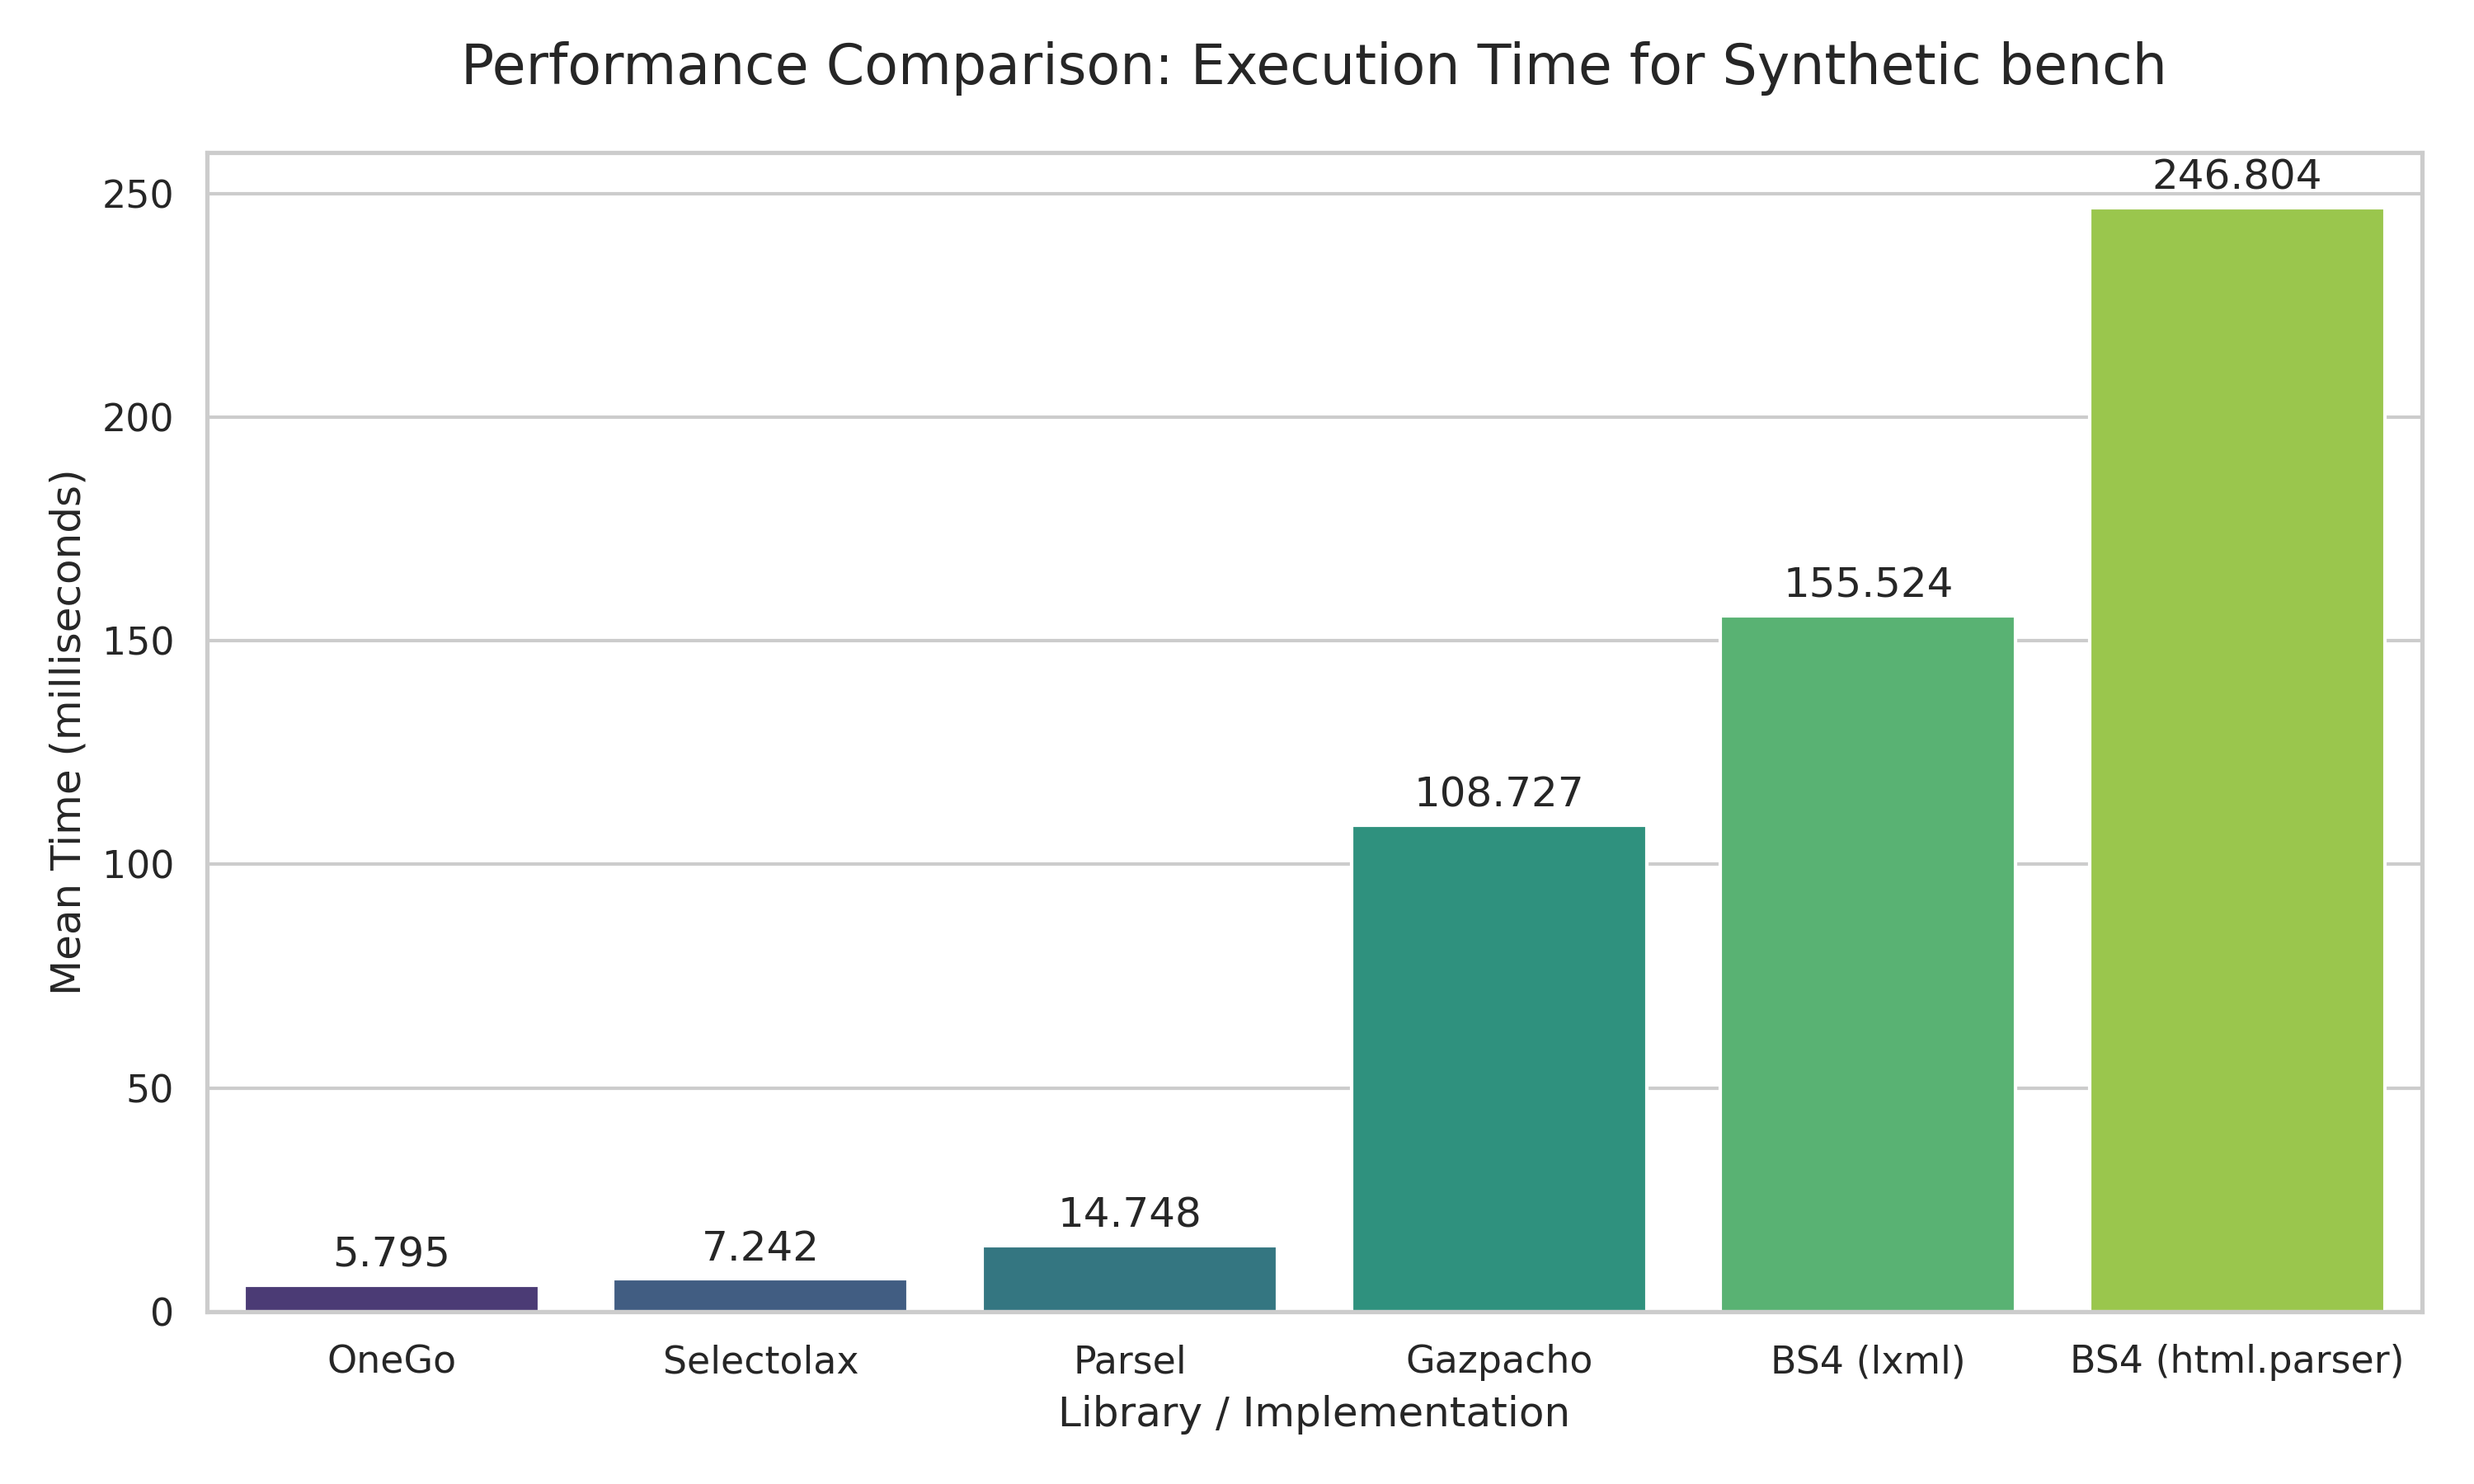
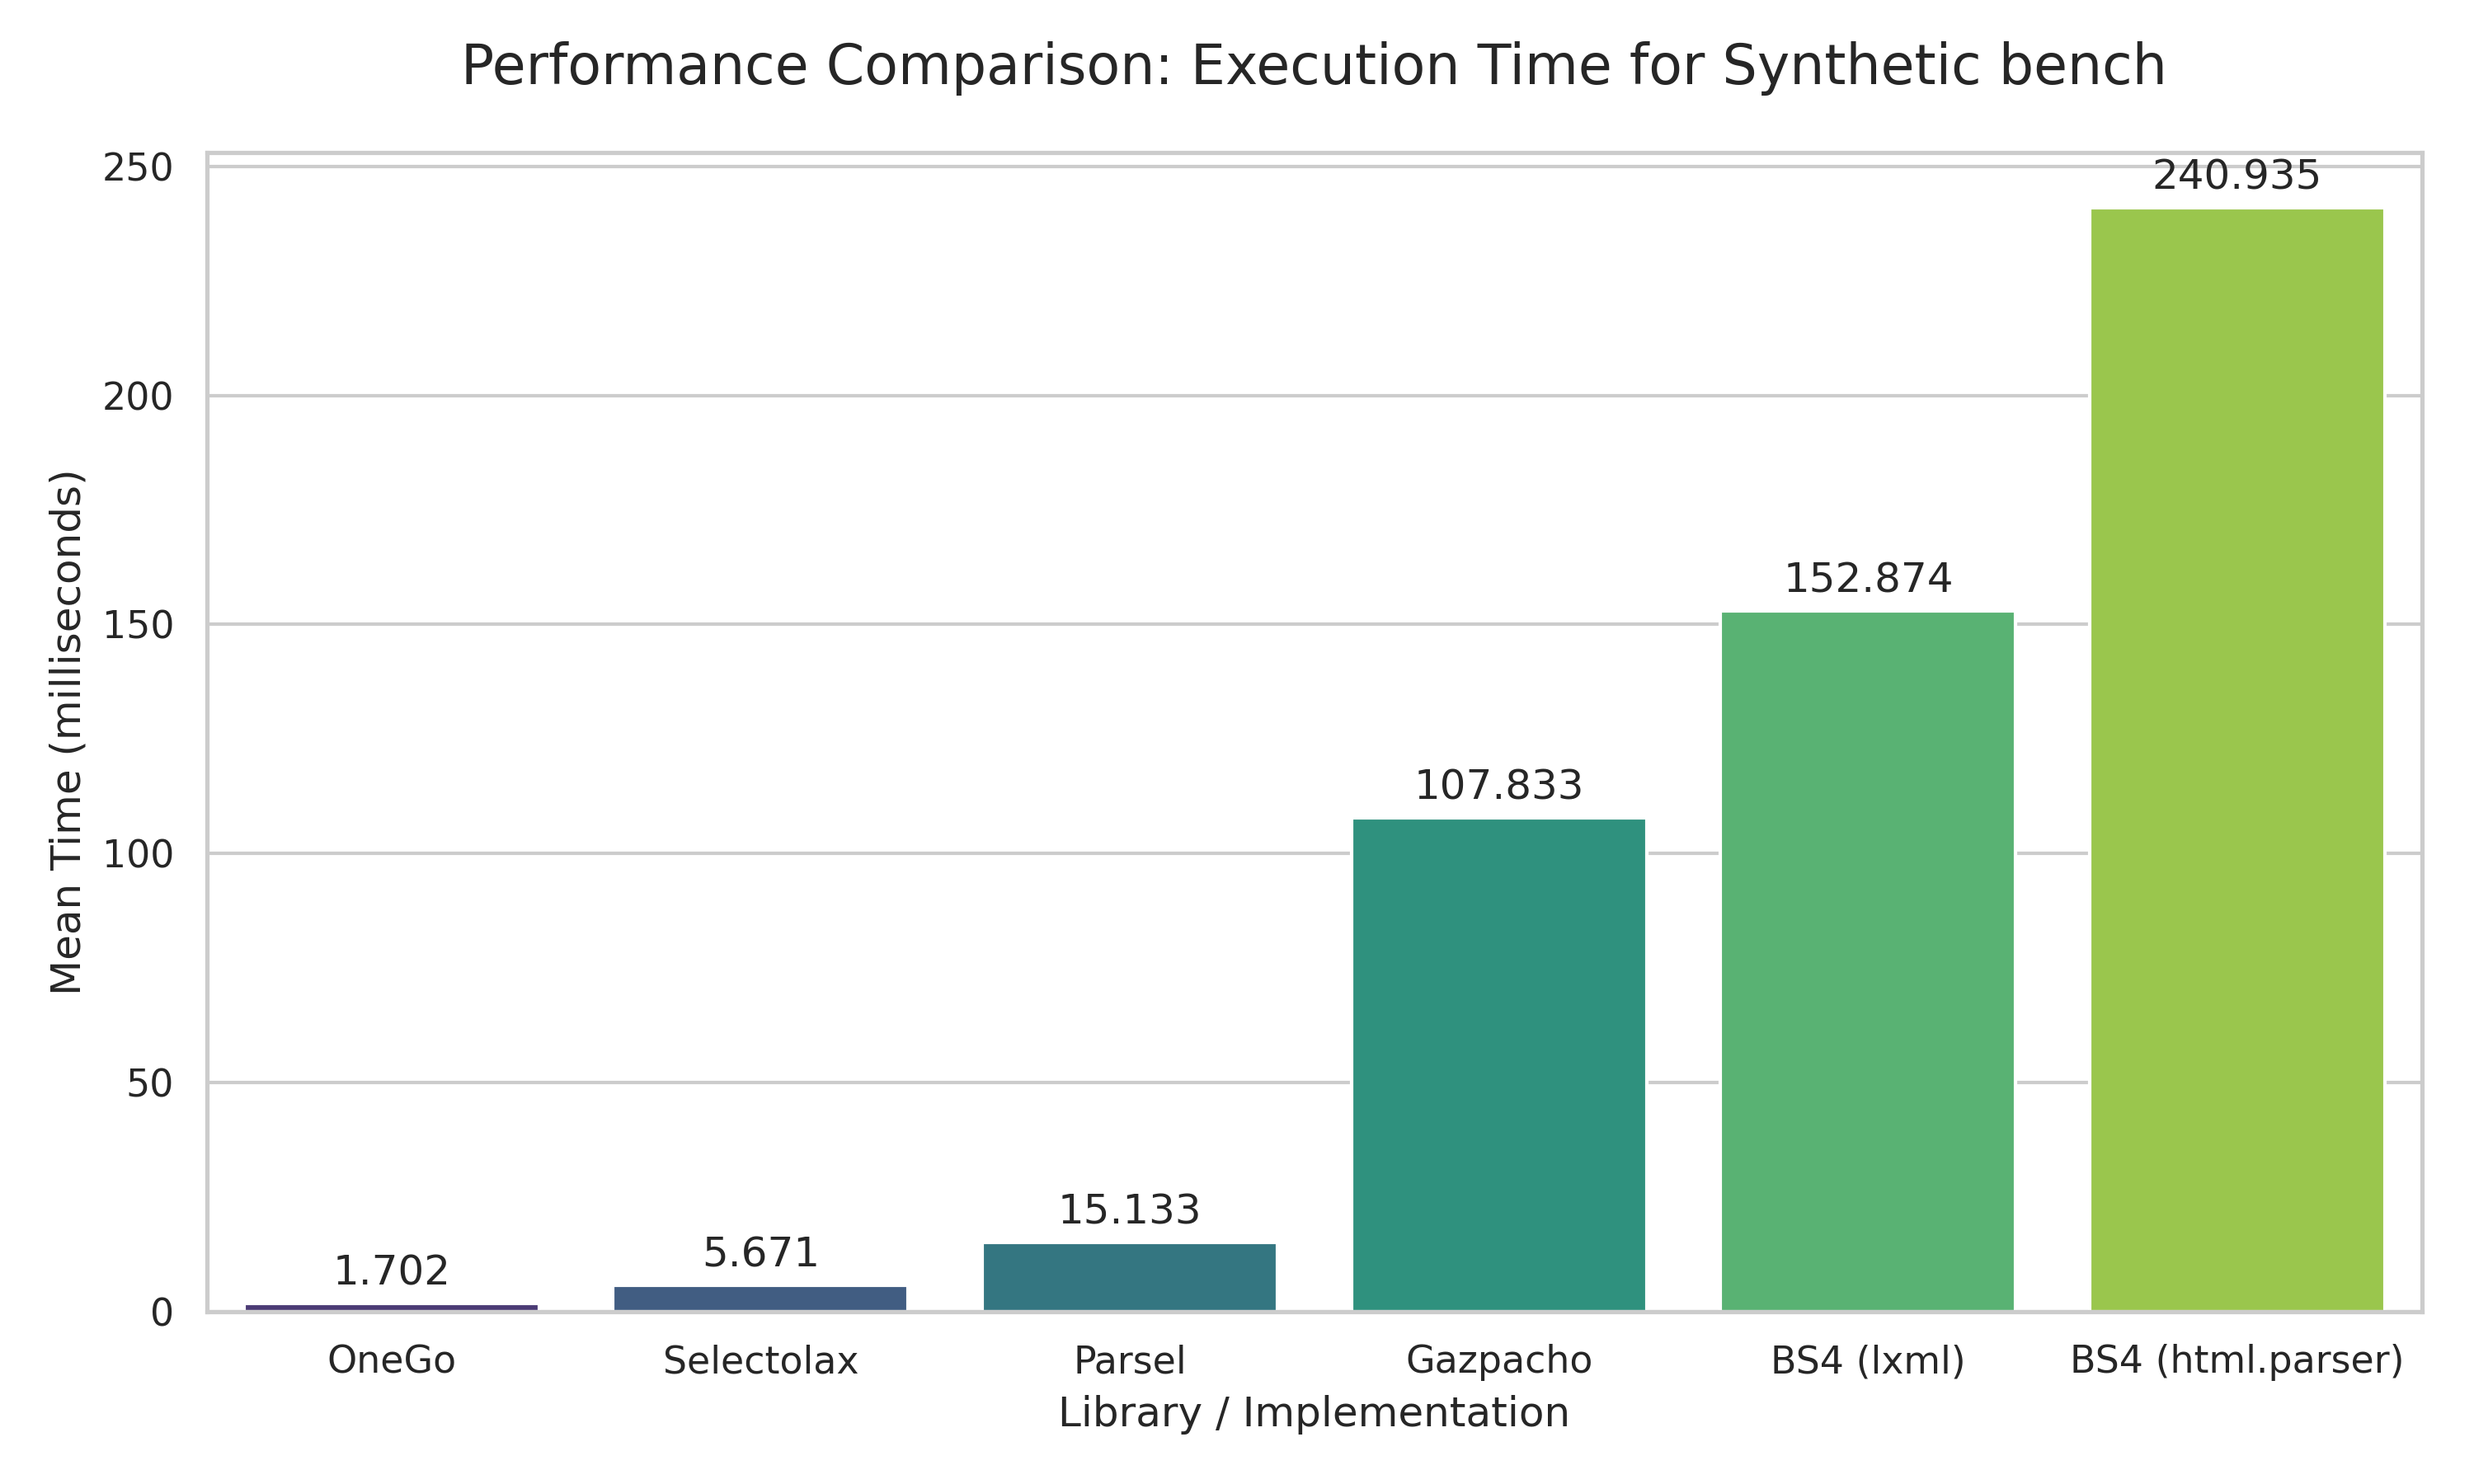
Performance metrics WITH copy to bytes in python

diff --git a/python/src/lib.rs b/python/src/lib.rs
@@ -1,7 +1,7 @@
-use ::onego::{FsmManager, QueryBuilder, Reader, SelectionPart, Store, XHtmlParser, ChildIndex};
+use ::onego::{ChildIndex, FsmManager, QueryBuilder, Reader, SelectionPart, Store, XHtmlParser};
+use pyo3::buffer::PyBuffer;
 use pyo3::prelude::*;
 use pyo3::types::{PyDict, PyList, PyMemoryView};
-use pyo3::buffer::PyBuffer;
 
 mod element;
 mod query;
@@ -11,7 +11,7 @@ mod view;
 
 use crate::query::{PyQuery, PyQueryBuilder, PyQueryFactory, PyQueryStatic};
 use crate::save::PySave;
-use view::{string_buffer_to_memory_view, get_memoryview_from_str};
+use view::{get_memoryview_from_u8, string_buffer_to_memory_view};
 //use crate::store::PythonStore;
 
 use std::ops::Range;
@@ -24,7 +24,7 @@ pub struct Attribute {
     value: OptionalStrRange,
 }
 
-#[pyclass(name="Element")]
+#[pyclass(name = "Element")]
 pub struct PyElement {
     base: Py<PyMemoryView>,
     text_content_tape: Py<PyMemoryView>,
@@ -42,21 +42,22 @@ pub struct PyElement {
 #[pyfunction]
 fn parse<'py>(
     py: Python<'py>,
-    html: &str,
-    //html: Bound<'py, PyMemoryView>,
+    html: Bound<'py, PyMemoryView>,
     queries: Bound<'py, PyAny>,
 ) -> PyResult<Bound<'py, PyList>> {
-    // let html_bytes = {
-    //     let buffer = PyBuffer::<u8>::get(&html)?;
-    //     if !buffer.is_c_contiguous() {
-    //         return Err(pyo3::exceptions::PyValueError::new_err("MemoryView is not contiguous"));
-    //     }
-    //     let slice = unsafe {
-    //         std::slice::from_raw_parts(buffer.buf_ptr() as *const u8, buffer.len_bytes())
-    //     };
+    let html_bytes = {
+        let buffer = PyBuffer::<u8>::get(&html)?;
+        if !buffer.is_c_contiguous() {
+            return Err(pyo3::exceptions::PyValueError::new_err(
+                "MemoryView is not contiguous",
+            ));
+        }
+        let slice = unsafe {
+            std::slice::from_raw_parts(buffer.buf_ptr() as *const u8, buffer.len_bytes())
+        };
 
-    //     slice
-    // };
+        slice
+    };
 
     let mut py_queries: Vec<PyQuery> = Vec::new();
 
@@ -102,9 +103,9 @@ fn parse<'py>(
     }
 
     let selectors = FsmManager::new(&built_queries);
-    let mut parser = XHtmlParser::with_capacity(selectors, html.len());
+    let mut parser = XHtmlParser::with_capacity(selectors, html_bytes.len());
 
-    let mut reader = Reader::new(&html);
+    let mut reader = Reader::from_bytes(html_bytes);
     while parser.next(&mut reader) {}
 
     let store = parser.matches();
@@ -114,7 +115,7 @@ fn parse<'py>(
     let mut list = Vec::with_capacity(store.elements.len());
 
     #[inline]
-    fn substring_range(parent: &str, substring: &str) -> Range<usize> {
+    fn substring_range(parent: &[u8], substring: &str) -> Range<usize> {
         let parent_ptr = parent.as_ptr();
         let sub_ptr = substring.as_ptr();
 
@@ -125,7 +126,7 @@ fn parse<'py>(
     }
 
     #[inline]
-    fn optional_substring_range(parent: &str, substring: Option<&str>) -> Option<Range<usize>> {
+    fn optional_substring_range(parent: &[u8], substring: Option<&str>) -> Option<Range<usize>> {
         if let Some(substring) = substring {
             Some(substring_range(parent, substring))
         } else {
@@ -133,28 +134,41 @@ fn parse<'py>(
         }
     }
 
-    let base_ref: &Py<PyMemoryView> = &unsafe { get_memoryview_from_str(py, html) }?.unbind();
+    let base_ref: &Py<PyMemoryView> = &unsafe { get_memoryview_from_u8(py, html_bytes) }?.unbind();
 
     for element in store.elements {
         list.push(PyElement {
             base: base_ref.clone_ref(py),
             text_content_tape: text_content_view_ref.clone_ref(py),
 
-            name: substring_range(&html, element.name),
-            id: optional_substring_range(&html, element.id),
-            class: optional_substring_range(&html, element.class),
-            inner_html: optional_substring_range(&html, element.inner_html),
+            name: substring_range(html_bytes, element.name),
+            id: optional_substring_range(html_bytes, element.id),
+            class: optional_substring_range(html_bytes, element.class),
+            inner_html: optional_substring_range(html_bytes, element.inner_html),
             text_content: element.text_content,
 
-            attributes: element.attributes.iter().map(|a| Attribute {
-                key: substring_range(html, a.key),
-                value: optional_substring_range(html, a.value),
-            }).collect(),
+            attributes: element
+                .attributes
+                .iter()
+                .map(|a| Attribute {
+                    key: substring_range(html_bytes, a.key),
+                    value: optional_substring_range(html_bytes, a.value),
+                })
+                .collect(),
 
-            children: element.children.into_iter().map(|c| (substring_range(&html, c.query), match c.index {
-                ChildIndex::One(index) => vec![index],
-                ChildIndex::Many(vec) => vec,
-            })).collect()
+            children: element
+                .children
+                .into_iter()
+                .map(|c| {
+                    (
+                        substring_range(html_bytes, c.query),
+                        match c.index {
+                            ChildIndex::One(index) => vec![index],
+                            ChildIndex::Many(vec) => vec,
+                        },
+                    )
+                })
+                .collect(),
         });
     }
 

diff --git a/python/src/view.rs b/python/src/view.rs
@@ -1,6 +1,6 @@
 use pyo3::ffi::{PyBUF_READ, PyMemoryView_FromMemory};
-use pyo3::{CastIntoError, prelude::*};
 use pyo3::types::{PyByteArray, PyBytes, PyCapsule, PyMemoryView};
+use pyo3::{CastIntoError, prelude::*};
 use std::ffi::CStr;
 
 pub fn string_buffer_to_memory_view(
@@ -17,17 +17,22 @@ pub fn string_buffer_to_memory_view(
 
     let object = unsafe { PyMemoryView_FromMemory(ptr, len, PyBUF_READ) };
 
-    let res = unsafe {Bound::from_owned_ptr_or_err(py, object)?.cast_into::<PyMemoryView>()};
+    let res = unsafe { Bound::from_owned_ptr_or_err(py, object)?.cast_into::<PyMemoryView>() };
     if res.is_err() {
         return Err(PyErr::fetch(py));
     }
     Ok(res.unwrap())
 }
 
-pub unsafe fn get_memoryview_from_str<'a>(py: Python<'a>, text: &'a str) -> PyResult<Bound<'a, PyMemoryView>> {
+pub unsafe fn get_memoryview_from_u8<'a>(
+    py: Python<'a>,
+    text: &'a [u8],
+) -> PyResult<Bound<'a, PyMemoryView>> {
     // INSANELY unsafe, but I'll assume that the user doesn't mess with the underling string
-    let object = unsafe { PyMemoryView_FromMemory(text.as_ptr() as *mut i8, text.len() as isize, PyBUF_READ) };
-    let res = unsafe {Bound::from_owned_ptr_or_err(py, object)?.cast_into::<PyMemoryView>()};
+    let object = unsafe {
+        PyMemoryView_FromMemory(text.as_ptr() as *mut i8, text.len() as isize, PyBUF_READ)
+    };
+    let res = unsafe { Bound::from_owned_ptr_or_err(py, object)?.cast_into::<PyMemoryView>() };
     if res.is_err() {
         return Err(PyErr::fetch(py));
     }

diff --git a/python/benches/utils/parsers.py b/python/benches/utils/parsers.py
@@ -62,7 +62,7 @@ def parse_gazpacho(html:str, query:str):
 def parse_onego(html:str, query:str):
     assert(onego)
     q = onego.Query.all(query, onego.Save.all()).build()
-    result = onego.parse(html, q)
+    result = onego.parse(memoryview(bytes(html, "utf-8")), q)
     return result
 
 
